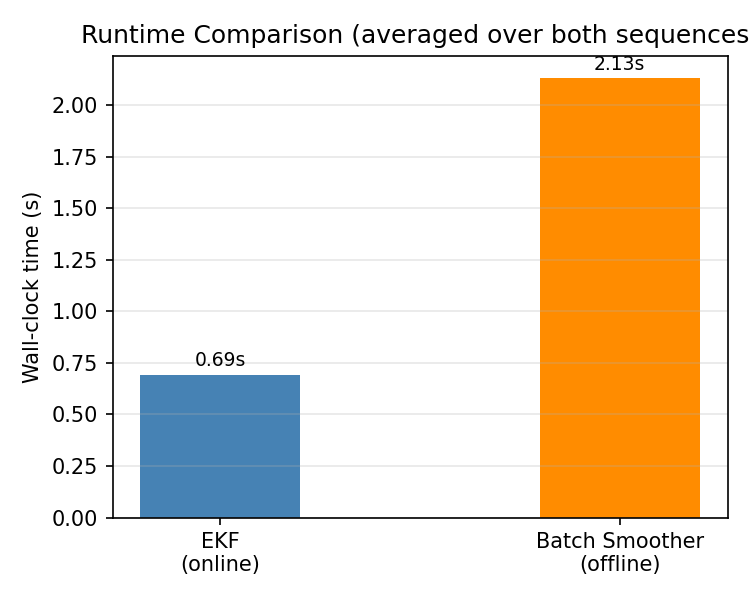
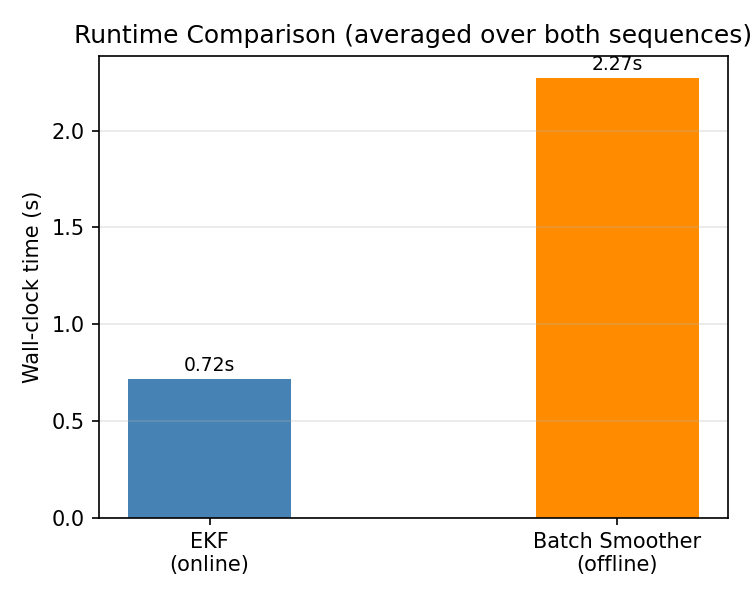
final updates

Changed region(s): [[0.0613, 0.03, 1.0, 0.87], [0.7053, 0.12, 0.9507, 0.96], [0.2147, 0.87, 0.3373, 0.96]]

diff --git a/src/evaluate.py b/src/evaluate.py
@@ -5,10 +5,9 @@ import matplotlib.pyplot as plt
 import os
 
 
-# ── Error computation ─────────────────────────────────────────────────────────
+# ── Error computation 
 
 def compute_geodesic_errors(R_est, R_gt):
-    """Geodesic error ||Log(R_est^T R_gt)||_2 at every timestep. Returns (T,)."""
     errors = jnp.array([
         jnp.linalg.norm(SO3.from_matrix(R_est[t].T @ R_gt[t]).log())
         for t in range(len(R_est))
@@ -25,7 +24,7 @@ def compute_metrics(errors, method_name):
     return rmse, peak
 
 
-# ── Individual plot helpers (kept for backward compat) ────────────────────────
+# ── Individual plot helpers
 
 def plot_cost(costs, save_path="results/cost_vs_iteration.png"):
     os.makedirs("results", exist_ok=True)
@@ -41,7 +40,7 @@ def plot_cost(costs, save_path="results/cost_vs_iteration.png"):
     print(f"Saved plot to {save_path}")
 
 
-# ── Main combined plots (called from run_experiment.py) ───────────────────────
+# ── Main combined plots  
 
 def plot_error_grid(timestamps_easy, ekf_errors_easy, batch_errors_easy,
                     timestamps_diff, ekf_errors_diff, batch_errors_diff,
@@ -118,11 +117,6 @@ def plot_runtime_bars(ekf_time, batch_time,
 def plot_sigma_bounds(timestamps, errors, P_est,
                       title="EKF Attitude Error with ±2σ Bounds",
                       save_path="results/sigma_bounds.png"):
-    """
-    EKF error as solid line with shaded ±2σ band — matches the reference style.
-    The 2σ bound is plotted symmetrically around zero (±bound) so the band
-    shows whether the error stays inside the predicted uncertainty envelope.
-    """
     os.makedirs("results", exist_ok=True)
     t = np.array(timestamps) - timestamps[0]
     err_deg = np.degrees(np.array(errors))
@@ -149,7 +143,7 @@ def plot_sigma_bounds(timestamps, errors, P_est,
     print(f"Saved plot to {save_path}")
 
 
-# ── Legacy wrapper (called by old run_experiment structure) ───────────────────
+# ── Legacy wrapper 
 
 def evaluate(timestamps, R_gt, R_ekf, R_smoother=None,
              smoother_costs=None, save_path="results/attitude_error.png"):

diff --git a/src/batch_smoother.py b/src/batch_smoother.py
@@ -5,14 +5,6 @@ from src.shampoo import mat_inv_fourth_root
 
 
 def cost_fn(delta_phi, R_current, gyro, dt):
-    """
-    Batch smoother cost function using vmap for efficiency.
-    delta_phi: (T, 3)
-    R_current: (T, 3, 3)
-    gyro:      (T-1, 3)
-    dt:        scalar
-    returns:   scalar cost
-    """
     def retract_single(R, dp):
         return (SO3.from_matrix(R) @ SO3.exp(dp)).as_matrix()
 
@@ -31,11 +23,6 @@ def cost_fn(delta_phi, R_current, gyro, dt):
 
 
 def run_batch_smoother(gyro, R_gt, dt, n_iter=50, lr=1e-3):
-    """
-    Run batch smoother with Shampoo optimizer.
-    Uses diagonal approximation for L to handle long sequences.
-    R is kept as full 3x3 matrix — true Shampoo on rotation axes.
-    """
     T = len(gyro)
 
     R_current = jnp.array(R_gt)
@@ -43,7 +30,7 @@ def run_batch_smoother(gyro, R_gt, dt, n_iter=50, lr=1e-3):
 
     # diagonal approximation for L — shape (T,) instead of (T,T)
     L_diag = jnp.ones(T) * 1e-6   # small init for numerical safety
-    # full R matrix — true Shampoo on rotation axes
+    # full R matrix true Shampoo on rotation axes
     R_mat  = jnp.eye(3) * 1e-6
 
     grad_fn = jax.jit(jax.grad(cost_fn))

diff --git a/src/ekf.py b/src/ekf.py
@@ -4,31 +4,6 @@ from jaxlie import SO3
 
 
 def run_ekf(gyro, R_gt, dt, sigma=0.3):
-    """
-    Error-state EKF for attitude estimation on SO(3).
-
-    Predict:
-        R_pred  = R * Exp(omega * dt)
-        P_pred  = F P F^T + Q,   F = Exp(-omega * dt)
-
-    Update: noisy attitude reference (synthetic Vicon measurement)
-        R_meas  = R_gt * Exp(eta),   eta ~ N(0, sigma^2 I)
-        z       = Log(R_pred^T R_meas)
-        H       = I_3
-        K       = P_pred (P_pred + V)^{-1}
-        R_new   = R_pred * Exp(K z)
-        P_new   = (I - K) P_pred (I - K)^T + K V K^T
-
-    Args
-        gyro  : (T, 3)    angular velocity [rad/s]
-        R_gt  : (T, 3, 3) ground truth rotations
-        dt    : float     timestep [s]
-        sigma : float     measurement noise [rad], default 0.05 (~3 deg)
-
-    Returns
-        R_est : (T, 3, 3)
-        P_est : (T, 3, 3)
-    """
     Q = jnp.diag(jnp.array([1e-5, 1e-5, 1e-5]))
     #V = jnp.eye(3) * (sigma ** 2)
 

diff --git a/src/so3_utils.py b/src/so3_utils.py
@@ -1,11 +1,7 @@
 import jax.numpy as jnp
 
 def skew(w):
-    """
-    Convert a 3-vector to a 3x3 skew-symmetric matrix.
-    w: (3,) array
-    returns: (3, 3) skew-symmetric matrix
-    """
+   
     wx, wy, wz = w
     return jnp.array([
         [ 0.0, -wz,  wy],
